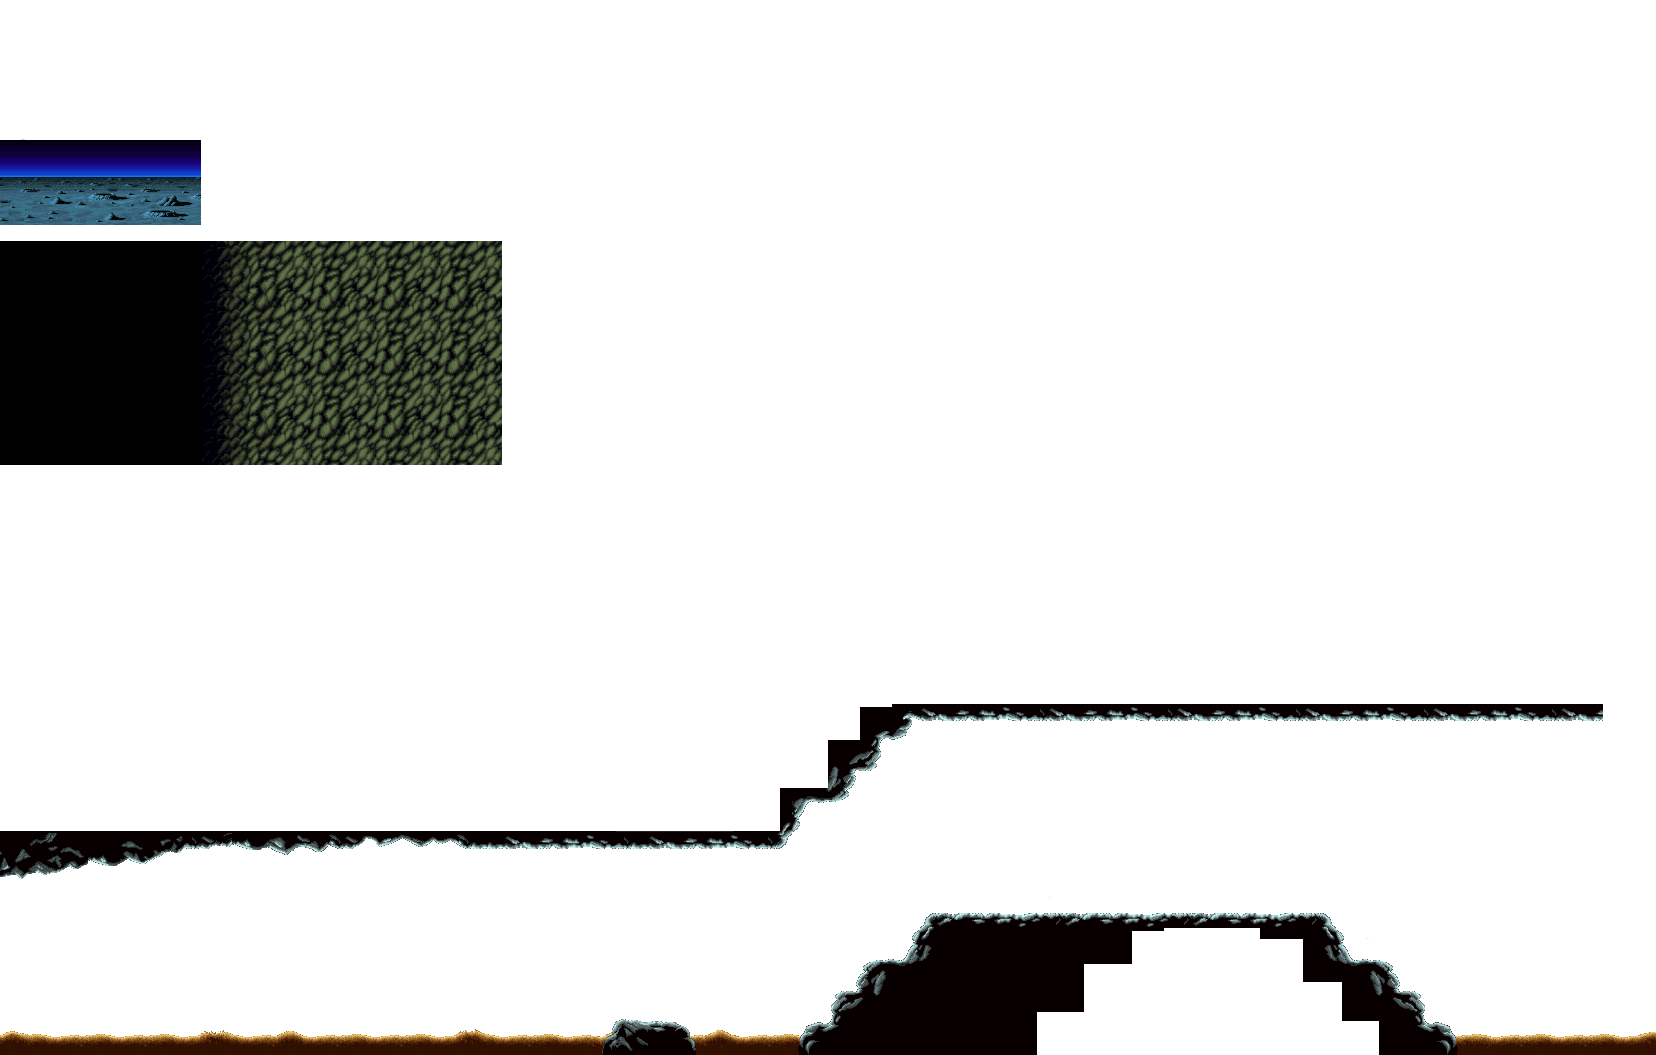
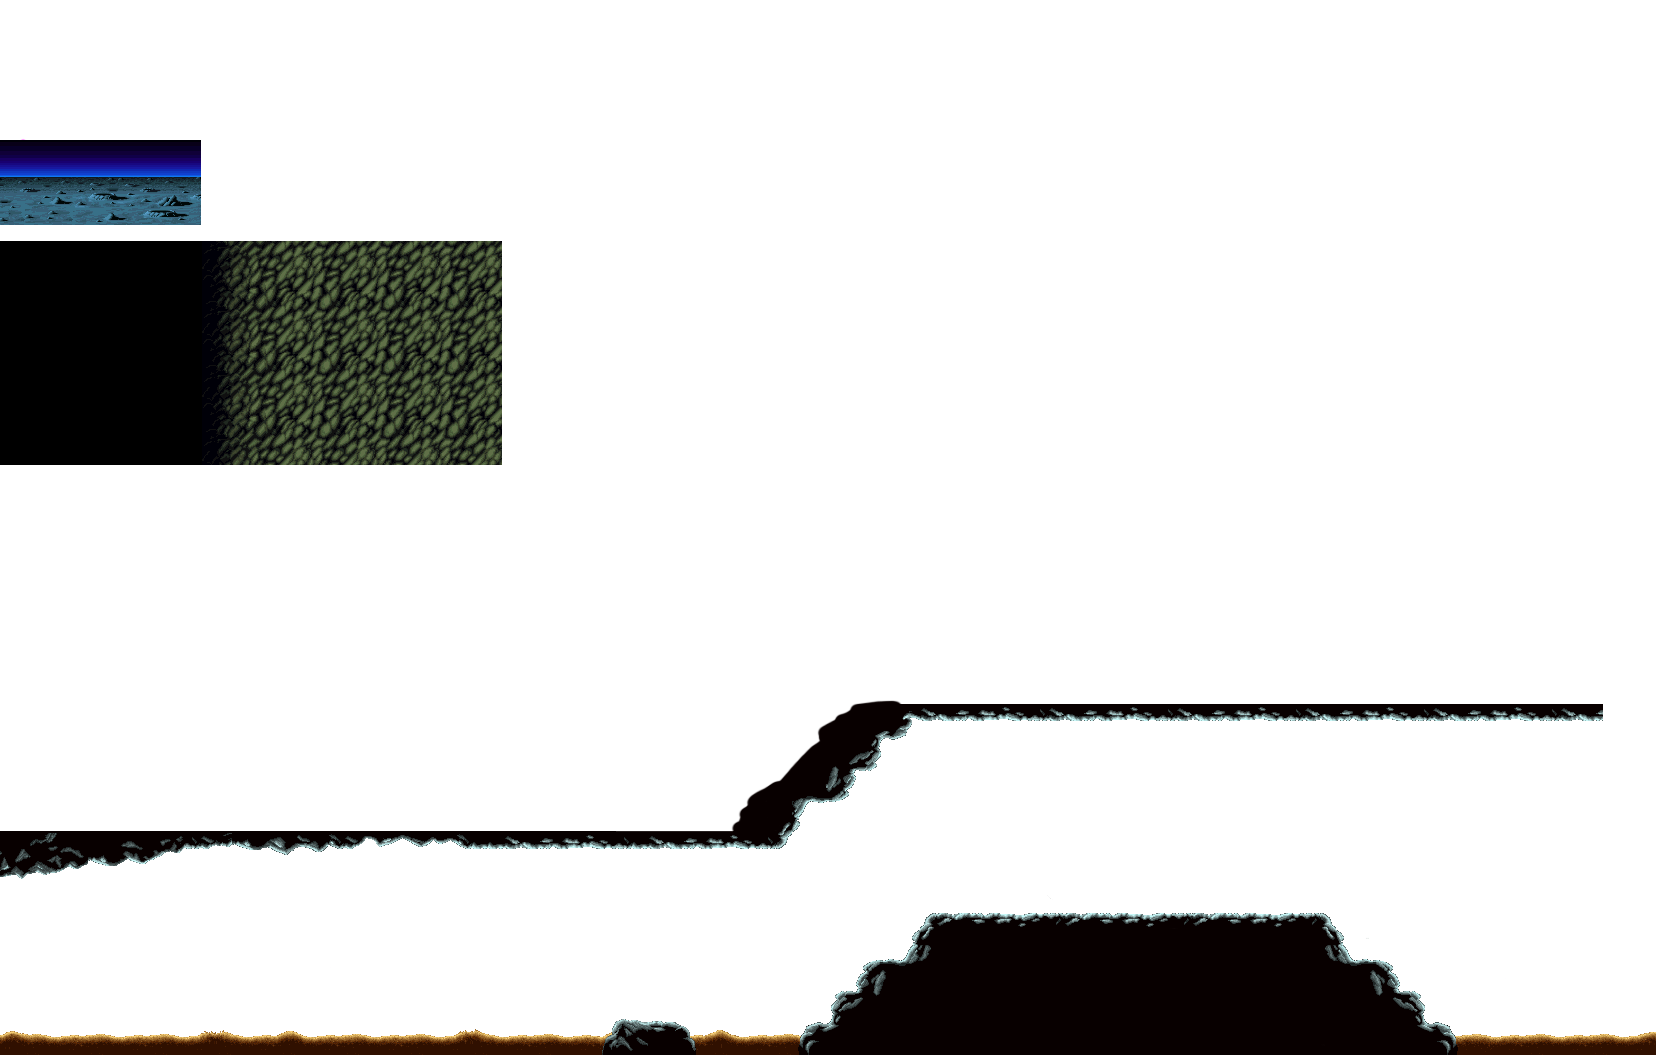
added underground background lvl1

Changed region(s): [[0.6159, 0.8796, 0.8315, 1.0], [0.4312, 0.6673, 0.5236, 0.7886]]

diff --git a/Andro dunos 0.1/Level01.cpp b/Andro dunos 0.1/Level01.cpp
@@ -36,8 +36,11 @@ bool Level01::Start()
 	layout[3] = App->textures->Load("layout4.png");
 	layout[4] = App->textures->Load("layout5.png");
 	layout[5] = App->textures->Load("layout6.png");
+	underground_tile = App->textures->Load("under_tile.png");
+	start_under = App->textures->Load("start_under.png");
+	end_under = App->textures->Load("end_under.png");
 
-	mov = 0;
+	mov = -1600;
 	movy = 0;
 	xstop = false;
 	position[0] = position[1] = position[2] = 0;
@@ -74,6 +77,7 @@ update_status Level01::Update()
 	SDL_RenderClear(App->render->renderer);
 	// TODO 10: Blit our test texture to check functionality
 	if (App->level01->IsEnabled() == true) {
+
 		for (int i = 0; i < 3; ++i) {
 			if (i == 0) {
 				if (mov + position[0] < 0 - TILE_WIDTH) position[0] += TILE_WIDTH * 3;
@@ -89,26 +93,35 @@ update_status Level01::Update()
 			}
 		}
 
+		if (movy <= -50) if (!App->render->Blit(start_under, mov * 0.9  /*1680*/ + 1510, 65 + movy * 0.5, nullptr)) return update_status::UPDATE_ERROR;
+			if (!App->render->Blit(underground_tile, mov * 0.9 + 2091, -128 + movy * 0.5, nullptr)) return update_status::UPDATE_ERROR;
+			if (!App->render->Blit(underground_tile, mov * 0.9 + 2091 + UNDER_TILE_WIDTH, -128 + movy * 0.5, nullptr)) return update_status::UPDATE_ERROR;
+			if (!App->render->Blit(underground_tile, mov * 0.9 + 2091 + UNDER_TILE_WIDTH * 2, -128 + movy * 0.5, nullptr)) return update_status::UPDATE_ERROR;
+			if (!App->render->Blit(underground_tile, mov * 0.9 + 2091 + UNDER_TILE_WIDTH * 3, -128 + movy * 0.5, nullptr)) return update_status::UPDATE_ERROR;
+
+		if (movy <= -50) if (!App->render->Blit(end_under, mov * 0.9  /*1680*/ + 2091 + UNDER_TILE_WIDTH * 4 - 64, 65 + movy * 0.5, nullptr)) return update_status::UPDATE_ERROR;//64 is the mesure of 1/6th of the under_tile_width
 		if (xstop == false && mov >= -5149) {
 			mov -= 0.45;
 		}
 
 		if ((mov <= -1684 && movy == 0) || (mov <= -4091 && movy <= -128)) xstop = true;
 		else if ((mov <= -1684 && movy <= -128) || (mov <= -4091 && movy >= 0)) xstop = false;
-		if ((mov <= -1684 && mov >= -1685 && movy >= -128) || (mov <= -2590 && mov >= -2660) || (mov <= -3468 && mov >= -3596)) {
+		if ((mov <= -1684 && mov >= -1685 && movy >= -128) || (mov <= -2590 && mov >= -2660) || (mov <= -3468 && mov >= -3594)) {
 			movy -= 0.45;
 		}
 		else if ((mov <= -2297 && mov >= -2368) || (mov <= -2918 && mov >= -3044) || (mov <= -4091 && mov >= -4092)) {
 			movy += 0.45;
 		}
 
+		
+		
 		if (mov >= -950) if (!App->render->Blit(layout[0], mov * 1.75, -607 + movy * 1.75, nullptr)) return update_status::UPDATE_ERROR;
 		if (mov <= -750 && mov >= -1950) if (!App->render->Blit(layout[1], mov * 1.75 + 1640, -607 + movy * 1.75, nullptr)) return update_status::UPDATE_ERROR;
 		if (mov <= -1500 && mov >= -2950) if (!App->render->Blit(layout[2], mov * 1.75 + 3281, -607 + movy * 1.75, nullptr)) return update_status::UPDATE_ERROR;
 		if (mov <= -2250 && mov >= -3950) if (!App->render->Blit(layout[3], mov * 1.75 + 4938, -607 + movy * 1.75, nullptr)) return update_status::UPDATE_ERROR;
 		if (mov <= -3000 && mov >= -4950) if (!App->render->Blit(layout[4], mov * 1.75 + 6595, -607 + movy * 1.75, nullptr)) return update_status::UPDATE_ERROR;
 		if (mov <= -3750) if (!App->render->Blit(layout[5], mov * 1.75 + 8235, -607 + movy * 1.75, nullptr)) return update_status::UPDATE_ERROR;
-
+		
 
 		//make so pressing SPACE the other stage is loaded
 		if (App->input->keyboard[SDL_SCANCODE_SPACE] == 1)

diff --git a/Andro dunos 0.1/Level01.h b/Andro dunos 0.1/Level01.h
@@ -21,8 +21,11 @@ public:
 
 public:
 	
-	SDL_Texture * tex;
+	SDL_Texture* tex;
 	SDL_Texture* layout[6];
+	SDL_Texture* underground_tile;
+	SDL_Texture* start_under;
+	SDL_Texture* end_under;
 	float mov;
 	float movy;
 	int position[2];

diff --git a/Andro dunos 0.1/Globals.h b/Andro dunos 0.1/Globals.h
@@ -30,5 +30,6 @@ typedef unsigned int uint;
 #define WIN_RESIZABLE 1
 #define REN_VSYNC 1
 #define TILE_WIDTH 251
+#define UNDER_TILE_WIDTH 385
 
 #endif // __GLOBALS_H__
